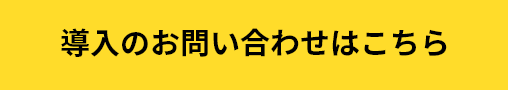
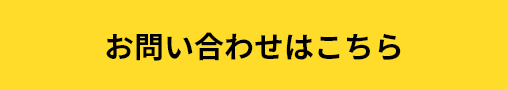
fv追加

Changed region(s): [[0.1181, 0.3111, 0.8858, 0.6889]]

diff --git a/css/style.scss b/css/style.scss
@@ -194,27 +194,53 @@ header {
             height: 59px;
         }
 
+        .logo_pc:hover,
+        .logo_sp:hover {
+            opacity: 0.5;
+        }
+
         .cta_btn_head {
             width: 254px;
+            transition: .3s;
 
             @include sp {
                 width: 176px;
             }
         }
 
-        .logo_pc:hover,
-        .logo_sp:hover,
         .cta_btn_head:hover {
-            opacity: 0.5;
+            box-shadow: 0 15px 30px -5px rgba(0, 0, 0, .15), 0 0 5px rgba(0, 0, 0, .1);
+            transform: translateY(-4px);
         }
     }
 }
 
 #fv {
     padding-top: 75px;
+    position: relative;
 
     @media (max-width: 980px) {
         padding-top: 59px;
+    }
+
+    .cta_btn {
+        width: 29%;
+        position: absolute;
+        top: 73%;
+        left: 17%;
+        transition: .3s;
+
+        @include sp {
+            width: 75%;
+            position: absolute;
+            top: 85%;
+            left: 12%;
+        }
+    }
+
+    .cta_btn:hover {
+        box-shadow: 0 15px 30px -5px rgba(0, 0, 0, .15), 0 0 5px rgba(0, 0, 0, .1);
+        transform: translateY(-4px);
     }
 }
 
@@ -224,7 +250,7 @@ header {
 
     @include sp {
         margin: 40px auto 60px;
-        
+
     }
 
     @media (max-width: 960px) {
@@ -516,10 +542,11 @@ header {
                 border: none;
                 width: 188px;
                 margin: 60px auto;
+                transition: .3s;
             }
 
             .submit_btn:hover {
-                opacity: 0.5;
+                transform: translateY(-4px);
             }
         }
     }

diff --git a/css/style.css b/css/style.css
@@ -171,27 +171,51 @@ header .header_inner .logo_pc {
 header .header_inner .logo_sp {
   height: 59px;
 }
+header .header_inner .logo_pc:hover,
+header .header_inner .logo_sp:hover {
+  opacity: 0.5;
+}
 header .header_inner .cta_btn_head {
   width: 254px;
+  transition: 0.3s;
 }
 @media (max-width: 768px) {
   header .header_inner .cta_btn_head {
     width: 176px;
   }
 }
-header .header_inner .logo_pc:hover,
-header .header_inner .logo_sp:hover,
 header .header_inner .cta_btn_head:hover {
-  opacity: 0.5;
+  box-shadow: 0 15px 30px -5px rgba(0, 0, 0, 0.15), 0 0 5px rgba(0, 0, 0, 0.1);
+  transform: translateY(-4px);
 }
 
 #fv {
   padding-top: 75px;
+  position: relative;
 }
 @media (max-width: 980px) {
   #fv {
     padding-top: 59px;
   }
+}
+#fv .cta_btn {
+  width: 29%;
+  position: absolute;
+  top: 73%;
+  left: 17%;
+  transition: 0.3s;
+}
+@media (max-width: 768px) {
+  #fv .cta_btn {
+    width: 75%;
+    position: absolute;
+    top: 85%;
+    left: 12%;
+  }
+}
+#fv .cta_btn:hover {
+  box-shadow: 0 15px 30px -5px rgba(0, 0, 0, 0.15), 0 0 5px rgba(0, 0, 0, 0.1);
+  transform: translateY(-4px);
 }
 
 #faq {
@@ -454,9 +478,10 @@ header .header_inner .cta_btn_head:hover {
   border: none;
   width: 188px;
   margin: 60px auto;
+  transition: 0.3s;
 }
 #contact .contact_inner form .submit_btn:hover {
-  opacity: 0.5;
+  transform: translateY(-4px);
 }
 
 footer {

diff --git a/index.php b/index.php
@@ -26,7 +26,11 @@
     </header>
 
     <section id="fv">
-        <img src="" alt="">
+        <img class="pc" src="img/fv_pc.jpg" alt="">
+        <img class="sp" src="img/fv_sp.jpg" alt="">
+        <a href="#contact">
+            <img class="cta_btn" src="img/cta_btn.png" alt="">
+        </a>
     </section>
 
     <section id="faq">
